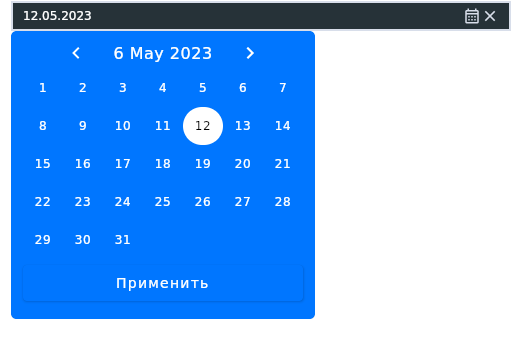
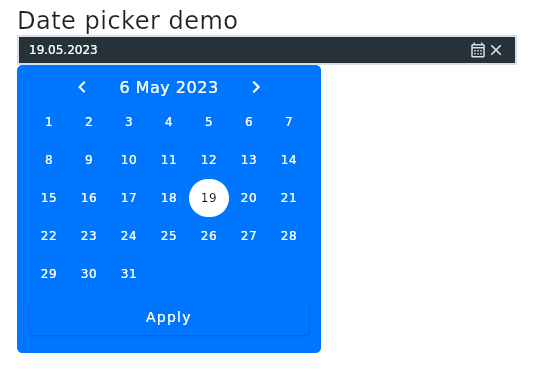
Add images

diff --git a/src/main/kotlin/dateTypes/DateInput.kt b/src/main/kotlin/dateTypes/DateInput.kt
@@ -4,6 +4,7 @@ import androidx.compose.runtime.MutableState
 import androidx.compose.runtime.mutableStateOf
 import stringAnnotation.displayDate
 import stringAnnotation.displayDateTime
+import styles.DateInoutDefaults
 import java.time.LocalDateTime
 
 sealed class DateInput {
@@ -27,9 +28,9 @@ sealed class DateInput {
 
     fun displayInput(): String {
         return when (this) {
-            is DateRange -> "${startDate.value.displayDate()}${endDate.value.displayDate()}"
-            is SingleDate -> date.value.displayDate()
-            is SingleDateTime -> dateTime.value.displayDateTime()
+            is DateRange -> if (startDate.value != null && endDate.value != null) "${startDate.value!!.displayDate()}${endDate.value!!.displayDate()}" else format
+            is SingleDate -> date.value?.displayDate() ?: format
+            is SingleDateTime -> dateTime.value?.displayDateTime() ?: format
         }
     }
 
@@ -92,6 +93,7 @@ sealed class DateInput {
                 val current = dateTime.value.withDayOfMonth(date).withHour(0).withMinute(0)
                 return actualDate == current
             }
+
             is SingleDateTime -> {
                 val (actualDateTime) = getResult()
                 if (actualDateTime == null) return false
@@ -180,6 +182,7 @@ sealed class DateInput {
                     true
                 } else false
             }
+
             is SingleDateTime -> TODO()
         }
 
@@ -187,11 +190,19 @@ sealed class DateInput {
 }
 
 
-fun initializeInput(type: DateTypes): DateInput {
-    return when (type) {
-        DateTypes.DATE_RANGE -> DateInput.DateRange()
-        DateTypes.SINGLE_DATE -> DateInput.SingleDate()
-        DateTypes.SINGLE_DATETIME -> DateInput.SingleDateTime()
+fun initializeInput(type: DateTypes, locale: DateInoutDefaults.DateInputLocale): DateInput {
+    return when (locale) {
+        DateInoutDefaults.DateInputLocale.EN -> when (type) {
+            DateTypes.DATE_RANGE -> DateInput.DateRange("ddmmyyyyddmmyyyy")
+            DateTypes.SINGLE_DATE -> DateInput.SingleDate("ddmmyyyy")
+            DateTypes.SINGLE_DATETIME -> DateInput.SingleDateTime("ddmmyyyy----")
+        }
+
+        DateInoutDefaults.DateInputLocale.RU -> when (type) {
+            DateTypes.DATE_RANGE -> DateInput.DateRange("ддммггггддммгггг")
+            DateTypes.SINGLE_DATE -> DateInput.SingleDate("ддммгггг")
+            DateTypes.SINGLE_DATETIME -> DateInput.SingleDateTime("ддммгггг----")
+        }
     }
 }
 

diff --git a/src/main/kotlin/stringAnnotation/stringAnnotation.kt b/src/main/kotlin/stringAnnotation/stringAnnotation.kt
@@ -5,26 +5,26 @@ import java.time.LocalDateTime
 import java.time.Month
 import java.util.*
 
-internal fun LocalDateTime?.displayDate() =
+internal fun LocalDateTime.displayDate() =
     "${
-        this?.dayOfMonth.trailZeros() ?: "дд"
+        this.dayOfMonth.trailZeros()
     }${
-        this?.month?.value.trailZeros() ?: "мм"
+        this.month.value.trailZeros()
     }${
-        this?.year ?: "гггг"
+        this.year
     }"
 
-internal fun LocalDateTime?.displayDateTime() =
+internal fun LocalDateTime.displayDateTime() =
     "${
-        this?.dayOfMonth.trailZeros() ?: "дд"
+        this.dayOfMonth.trailZeros()
     }${
-        this?.month?.value.trailZeros() ?: "мм"
+        this.month?.value.trailZeros()
     }${
-        this?.year ?: "гггг"
+        this.year
     }${
-        this?.hour ?: "--"
+        this.hour
     }${
-        this?.minute ?: "--"
+        this.minute
     }"
 
 internal fun Int?.trailZeros() = this?.toString()?.padStart(2, '0')
@@ -48,3 +48,9 @@ internal fun Month.toLocale(locale: DateInoutDefaults.DateInputLocale) = when (l
     DateInoutDefaults.DateInputLocale.EN -> this.name.lowercase().replaceFirstChar { it.titlecase(Locale.getDefault()) }
 }
 
+fun getApplyText(locale: DateInoutDefaults.DateInputLocale): String {
+    return when (locale) {
+        DateInoutDefaults.DateInputLocale.RU -> "Применить"
+        DateInoutDefaults.DateInputLocale.EN -> "Apply"
+    }
+}

diff --git a/src/main/kotlin/composables/spanCalendar.kt b/src/main/kotlin/composables/spanCalendar.kt
@@ -21,6 +21,7 @@ import androidx.compose.ui.text.style.TextAlign
 import androidx.compose.ui.unit.dp
 import androidx.compose.ui.unit.sp
 import dateTypes.DateInput
+import stringAnnotation.getApplyText
 import styles.DateInoutDefaults
 import styles.getPointerCursor
 import java.time.LocalDateTime
@@ -36,7 +37,7 @@ fun Calendar(
     onDateSelected: (List<LocalDateTime?>) -> Unit,
     errorMessage: MutableState<String?>,
     background: Color,
-    locale: DateInoutDefaults.DateInputLocale
+    locale: DateInoutDefaults.DateInputLocale,
 ) {
     Row(
         modifier = Modifier
@@ -109,7 +110,7 @@ fun Calendar(
             .getPointerCursor()
     ) {
         Text(
-            "Применить",
+            getApplyText(locale),
             color = Color.White,
             modifier = Modifier
         )

diff --git a/src/main/kotlin/composables/dateRangePicker.kt b/src/main/kotlin/composables/dateRangePicker.kt
@@ -26,7 +26,7 @@ fun DateRangePicker(
     calendarBackground: Color = selected,
     onDateSelected: (List<LocalDateTime?>) -> Unit,
 ) {
-    val dateHolder = remember { mutableStateOf(initializeInput(DateTypes.DATE_RANGE)) }
+    val dateHolder = remember { mutableStateOf(initializeInput(DateTypes.DATE_RANGE, locale)) }
     GenericCalendarInput(
         dateHolder = dateHolder,
         modifier = modifier,

diff --git a/src/main/kotlin/composables/singleDatePicker.kt b/src/main/kotlin/composables/singleDatePicker.kt
@@ -26,7 +26,7 @@ fun DatePicker(
     calendarBackground: Color = selected,
     onDateSelected: (List<LocalDateTime?>) -> Unit,
 ) {
-    val dateHolder = remember { mutableStateOf(initializeInput(DateTypes.SINGLE_DATE)) }
+    val dateHolder = remember { mutableStateOf(initializeInput(DateTypes.SINGLE_DATE, locale)) }
     GenericCalendarInput(
         dateHolder = dateHolder,
         modifier = modifier,
